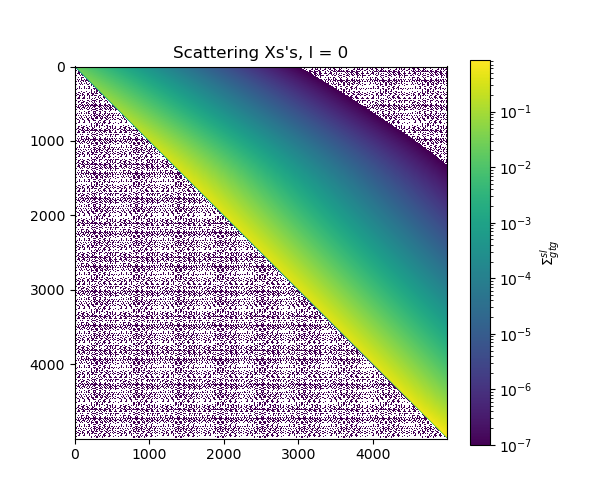
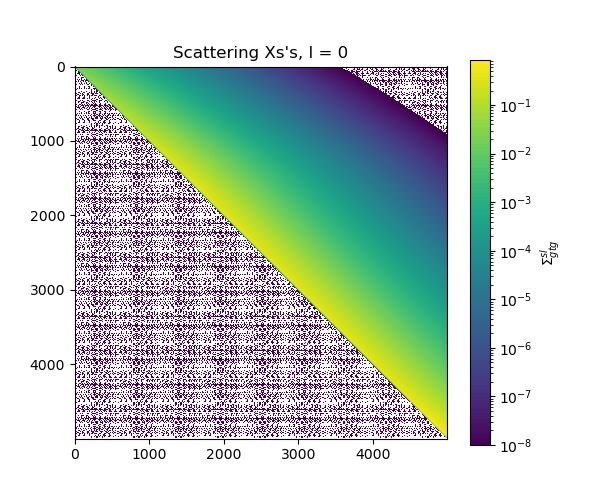
Sigma_gtg phi0 and phi2 weighted and parametric buckling

diff --git a/HF_SD_Sp3.py b/HF_SD_Sp3.py
@@ -55,7 +55,7 @@ class Sp3:
         self.L2 = np.zeros_like(self.L0)
         self.L3 = np.zeros_like(self.L0)
         self.chart_dir = "results/charts/"
-        self.save_data = True
+        self.save_data = False
         self.few_groups = 8
 
     def get_data(self,data, gridpoints):
@@ -253,13 +253,107 @@ class Sp3:
         sigma_gtg = self.gen_sig_sn_gtg(A,sigma_s,self.leg_order, self.boundaries,
                                         self.gmax_vec_fn(A,self.lga_fn(self.alpha_fn(A))),
                                         self.alpha_fn(A), self.E0, self.tol,phi)
-        self.plot_sig_sn_gtg(sigma_gtg, sigma_s, A)
-        self.plot_each_l(A,sigma_s,sigma_gtg)
+#        self.plot_sig_sn_gtg(sigma_gtg, sigma_s, A)
+#        self.plot_each_l(A,sigma_s,sigma_gtg)
 
         self.L0 += self._Ln(0, sigma_t, sigma_gtg[0,:,:])
         self.L1 += self._Ln(1, sigma_t, sigma_gtg[1,:,:])
         self.L2 += self._Ln(2, sigma_t, sigma_gtg[2,:,:])
         self.L3 += self._Ln(3, sigma_t, sigma_gtg[3,:,:])
+
+    def calc_phi_B2(self):
+        print('Calc phi B2')
+
+        p0 = []
+        p2 = []
+        # phi0
+        plt.figure()
+        for i in range(self.B2.size):
+            B2 = self.B2[i]
+            print(f"phi0, {i}, B2 = {np.round(B2,5)}")
+            B4 = B2 * B2
+            LHS = (9 * B4 + B2 * (self.L3 @ self.L2 + (9 * self.L1 + 4 * self.L3) @ self.L0)
+                    + self.L3 @ self.L2 @ self.L1 @ self.L0)
+            RHS = (self.L3 @ self.L2 @ self.L1 + B2 * (9 * self.L1 + 4 * self.L3)) @ self.chi[:-1]
+            phi0 = np.linalg.solve(LHS,RHS)
+            p0.append(phi0)
+            plt.plot(self.Evec[:-1],phi0,label = f"{np.round(B2,5)}")
+
+        plt.title(r"$\phi_0 (E,B^2)$ Leakage Parameter Parametric Study")
+        plt.xscale("log")
+        plt.xlabel("Energy (eV)")
+        plt.ylabel(r"$\phi_0 (E,B^2)$")
+        plt.legend()
+        plt.grid(which = 'Both')
+        plt.savefig(f"{self.chart_dir}phi0_leakage_comparison.png")
+        plt.clf()
+
+        #phi2
+        plt.figure()
+        for i in range(self.B2.size):
+            B2 = self.B2[i]
+            print(f"phi2, {i}, B2 = {np.round(B2,5)}")
+            LHS = self.L3 @ self.L2
+            RHS = .5 * (-9 * B2 * self.phi0 + (9 * self.L1 + 4 * self.L3)
+                    @ (self.L0 @ self.phi0 - self.chi[:-1]))
+            phi2 = np.linalg.solve(LHS,RHS)
+            p2.append(phi2)
+            plt.plot(self.Evec[:-1],phi2,label = f"{np.round(B2,5)}")
+
+        plt.title(r"$\phi_2 (E,B^2)$ Leakage Parameter Parametric Study")
+        plt.xscale("log")
+        plt.xlabel("Energy (eV)")
+        plt.ylabel(r"$\phi_0$ (E,B2)")
+        plt.legend()
+        plt.grid(which = 'Both')
+        plt.savefig(f"{self.chart_dir}phi2_leakage_comparison.png")
+        plt.clf()
+
+        B2 = 0
+        # self.phi0
+        B4 = B2 * B2
+        LHS = (9 * B4 + B2 * (self.L3 @ self.L2 + (9 * self.L1 + 4 * self.L3) @ self.L0)
+                    + self.L3 @ self.L2 @ self.L1 @ self.L0)
+        RHS = (self.L3 @ self.L2 @ self.L1 + B2 * (9 * self.L1 + 4 * self.L3)) @ self.chi[:-1]
+        self.phi0 = np.linalg.solve(LHS,RHS)
+
+        # self.phi2
+        LHS = self.L3 @ self.L2
+        RHS = .5 * (-9 * B2 * self.phi0 + (9 * self.L1 + 4 * self.L3)
+               @ (self.L0 @ self.phi0 - self.chi[:-1]))
+        self.phi2 = np.linalg.solve(LHS,RHS)
+
+        p0 = np.array(p0)
+        p2 = np.array(p2)
+
+        plt.figure()
+        for i in range(self.B2.size):
+            plt.plot(self.Evec[:-1], np.abs(p0[i,:] - self.phi0) / self.phi0, 
+                    label = f"B2: {np.round(self.B2[i],5)}, L2 = {self.L2_norm(p0[i,:],self.phi0)}")
+        plt.title(r"$\phi_0 (E,B^2)$ Leakage Parameter Percent Difference")
+        plt.xscale("log")
+        plt.yscale("log")
+        plt.xlabel("Energy (eV)")
+        plt.ylabel(f"% Difference from $\phi_0 (E,B^2 = 0)$")
+        plt.legend()
+        plt.grid(which = 'Both')
+        plt.savefig(f"{self.chart_dir}phi0_leakage_flux_diff.png")
+        plt.clf()
+
+        plt.figure()
+        for i in range(self.B2.size):
+            plt.plot(self.Evec[:-1], np.abs(p2[i,:] - self.phi2) / self.phi2, 
+                    label = f"B2: {np.round(self.B2[i],5)}, L2 = {self.L2_norm(p2[i,:],self.phi2)}")
+        plt.title(r"$\phi_2 (E,B^2)$ Leakage Parameter Percent Difference")
+        plt.xscale("log")
+        plt.yscale("log")
+        plt.xlabel("Energy (eV)")
+        plt.ylabel(f"% Difference from $\phi_2 (E,B^2 = 0)$")
+        plt.legend()
+        plt.grid(which = 'Both')
+        plt.savefig(f"{self.chart_dir}phi2_leakage_flux_diff.png")
+        plt.clf()
+
 
     def calc_phi(self, properties = False):
         # phi0
@@ -304,6 +398,7 @@ class Sp3:
             'Phi0': self.Phi0, 'Phi2': self.Phi2,
             'phi_ref': self.p0[:-1]})
         df.to_hdf(f"{self.save_dir}fluxes_{self.NH}.h5", key="df", mode="w", format="table")
+        df.to_csv(f"{self.save_dir}fluxes_{self.NH}.csv")
 
     def run(self):
         self.initial_flux()
@@ -315,7 +410,8 @@ class Sp3:
             print(f'Build Sigma_gtg and Ln for Hydrogen, NH = {self.NH}')
             self.calc_Ln(self.AH, self.sig_t_H, self.sig_s0_H)
             self.transpose_and_save_Ln()
-            self.calc_phi()
+            if self.B2.size == 1: self.calc_phi()
+            else: self.calc_phi_B2()
             self.calc_Phi()
             self.plot_fluxes()
             self.plot_flux_diff()
@@ -325,6 +421,31 @@ class Sp3:
         self.phi_weighted_sigma(self.sig_t_U,self.AU, "total")
         self.phi_weighted_sigma(self.sig_t_H,self.AH, "total")
         self.phi_weighted_sigma(self.sigma_f,self.AU, "fission")
+
+        # Uranium
+        print("Uranium Group->Group Few Group Cross-Sections")
+        sigma_sl = self.gen_sig_sn_gtg(self.AU,self.sig_s0_U,self.leg_order, self.boundaries,
+                                        self.gmax_vec_fn(self.AU,self.lga_fn(self.alpha_fn(self.AU))),
+                                        self.alpha_fn(self.AU), self.E0, self.tol,phi=np.ones_like(self.phi0))
+        self.sigma_s0, self.sigma_s0_0, self.sigma_s0_2 = self.phi_weighted_sigma_sl(sigma_sl[0,:,:], self.AU, 0)
+        self.sigma_s1, self.sigma_s1_0, self.sigma_s1_2 = self.phi_weighted_sigma_sl(sigma_sl[1,:,:], self.AU, 1)
+        self.sigma_s2, self.sigma_s2_0, self.sigma_s2_2 = self.phi_weighted_sigma_sl(sigma_sl[2,:,:], self.AU, 2)
+        self.sigma_s3, self.sigma_s3_0, self.sigma_s3_2 = self.phi_weighted_sigma_sl(sigma_sl[3,:,:], self.AU, 3)
+        self.save_sigma_sl(self.AU)
+
+
+        # Hydrogen
+        print("Hydrogen Group->Group Few Group Cross-Sections")
+        sigma_sl = self.gen_sig_sn_gtg(self.AH,self.sig_s0_H,self.leg_order, self.boundaries,
+                                        self.gmax_vec_fn(self.AH,self.lga_fn(self.alpha_fn(self.AH))),
+                                        self.alpha_fn(self.AH), self.E0, self.tol,phi=np.ones_like(self.phi0))
+        self.sigma_s0, self.sigma_s0_0, self.sigma_s0_2 = self.phi_weighted_sigma_sl(sigma_sl[0,:,:], self.AH, 0)
+        self.sigma_s1, self.sigma_s1_0, self.sigma_s1_2 = self.phi_weighted_sigma_sl(sigma_sl[1,:,:], self.AH, 1)
+        self.sigma_s2, self.sigma_s2_0, self.sigma_s2_2 = self.phi_weighted_sigma_sl(sigma_sl[2,:,:], self.AH, 2)
+        self.sigma_s3, self.sigma_s3_0, self.sigma_s3_2 = self.phi_weighted_sigma_sl(sigma_sl[3,:,:], self.AH, 3)
+        self.save_sigma_sl(self.AH)
+
+        print("Calculation Complete")
 
     def phi_weighted_sigma(self, sigma, A,key):
         # start generating few group xs's
@@ -358,15 +479,71 @@ class Sp3:
         df = pd.DataFrame({
             "Energy": E_ave,
             "Lethargy": u_ave,
-            "Sigma T Average": sigma_fg,
-            "Sigma T Phi0": sigma_fg_0,
-            "Sigma T Phi2": sigma_fg_2,
+            "Sigma Average": sigma_fg,
+            "Sigma Phi0": sigma_fg_0,
+            "Sigma Phi2": sigma_fg_2,
         })
 
         df.to_csv(f"{self.save_dir}fg_xs_{key}_A{A}_NH{self.NH}.csv")
 
-    def flux_weighted_sigma_sl(self,A,sigma_s):
-        return 0
+    def phi_weighted_sigma_sl(self, sigma, A, l):
+        def block_flux_weighted(sigma_mat, phi, group_idx, E):
+            """Double integral helper function"""
+            m = group_idx.size - 1
+            out = np.zeros((m, m), dtype=float)
+    
+            denom_phi = np.zeros(m, dtype=float)
+            area_I = np.zeros(m, dtype=float)
+            for I in range(m):
+                # integral of 1 dE over [E_sI, E_tI]
+                sI, tI = group_idx[I], group_idx[I + 1]
+                area_I[I] = np.trapz(np.ones(tI - sI, dtype=float), E[sI:tI])
+                # denominator
+                sJ, tJ = group_idx[I], group_idx[I + 1]
+                denom_phi[I] = np.trapz(phi[sJ:tJ], E[sJ:tJ])
+    
+            # Double integral via nested trapezoids
+            for I in range(m):
+                sI, tI = group_idx[I], group_idx[I + 1]
+                for J in range(m):
+                    sJ, tJ = group_idx[J], group_idx[J + 1]
+                    blk = sigma_mat[sI:tI, sJ:tJ]                           
+                    tmp = blk * phi[sJ:tJ][None, :]                         
+                    col_int = np.trapz(tmp, E[sJ:tJ], axis=1)       
+                    num = np.trapz(col_int, E[sI:tI])       
+                    out[I, J] = num / (denom_phi[J] * area_I[I])
+    
+            return out
+    
+        N = self.phi0.size
+        E = self.Evec[:-1]
+        u = self.boundaries
+        fg_idx = np.linspace(0, N, self.few_groups + 1, dtype=int)
+
+        E_ave = np.zeros(self.few_groups, dtype=float)
+        u_ave = np.zeros_like(E_ave)
+        for i in range(self.few_groups):
+            idx_ave = (fg_idx[i] + fg_idx[i + 1]) // 2
+            E_ave[i] = E[idx_ave]
+            u_ave[i] = u[idx_ave]
+    
+        sigma_fg   = block_flux_weighted(sigma, self.phi0, fg_idx, E)
+        sigma_fg_0 = block_flux_weighted(sigma, self.Phi0, fg_idx, E)
+        sigma_fg_2 = block_flux_weighted(sigma, self.Phi2, fg_idx, E)
+        print(f"L2 norm on phi0 vs Phi0 weighted Sigma_s{l} gtg for A={A}: {self.L2_norm(sigma_fg, sigma_fg_0)}")
+    
+        """
+        # ----- save -----
+        # Save matrices as CSV (row/col = coarse group indices)
+        pd.DataFrame(sigma_fg).to_csv(f"{self.save_dir}fg_xs_{key}_A{A}_NH{self.NH}_phi0.csv", index=False)
+        pd.DataFrame(sigma_fg_0).to_csv(f"{self.save_dir}fg_xs_{key}_A{A}_NH{self.NH}_Phi0.csv", index=False)
+        pd.DataFrame(sigma_fg_2).to_csv(f"{self.save_dir}fg_xs_{key}_A{A}_NH{self.NH}_Phi2.csv", index=False)
+    
+        # Also save coarse-grid metadata
+        meta_df = pd.DataFrame({"Energy_center": E_ave, "Lethargy_center": u_ave})
+        meta_df.to_csv(f"{self.save_dir}fg_meta_{key}_A{A}_NH{self.NH}.csv", index=False)
+        """
+        return sigma_fg, sigma_fg_0, sigma_fg_2
 
     def read_data(self):
         print("Reading Data From File...")
@@ -384,6 +561,22 @@ class Sp3:
             self.L2 = f["L2"][:]
             self.L3 = f["L3"][:]
         print("Ln Read!")
+
+    def save_sigma_sl(self,A):
+        # save
+        with h5py.File(f"{self.save_dir}Sigma_sl_A{A}_{self.NH}.h5", "w") as f:
+                f.create_dataset("Sigma S0", data=self.sigma_s0)
+                f.create_dataset("Sigma S0 phi0", data=self.sigma_s0_0)
+                f.create_dataset("Sigma S0 phi2", data=self.sigma_s0_2)
+                f.create_dataset("Sigma S1", data=self.sigma_s1)
+                f.create_dataset("Sigma S1 phi0", data=self.sigma_s1_0)
+                f.create_dataset("Sigma S1 phi2", data=self.sigma_s1_2)
+                f.create_dataset("Sigma S2", data=self.sigma_s2)
+                f.create_dataset("Sigma S2 phi0", data=self.sigma_s2_0)
+                f.create_dataset("Sigma S2 phi2", data=self.sigma_s2_2)
+                f.create_dataset("Sigma S3", data=self.sigma_s3)
+                f.create_dataset("Sigma S3 phi0", data=self.sigma_s3_0)
+                f.create_dataset("Sigma S3 phi2", data=self.sigma_s3_2)
 
     @staticmethod
     def alpha_fn(A): return ((A - 1.0)/(A + 1.0)) ** 2
@@ -559,9 +752,10 @@ class Sp3:
 stt = time.time()
 NH = 5
 data_dir = 'data/'
-B2 = 0.0
+B2 = .01
+#B2 = np.linspace(-1,1,10)
 nbins = 5000
-fromH5 = False
+fromH5 = True
 
 # init class
 print(f"Initializing, {nbins} Groups")
